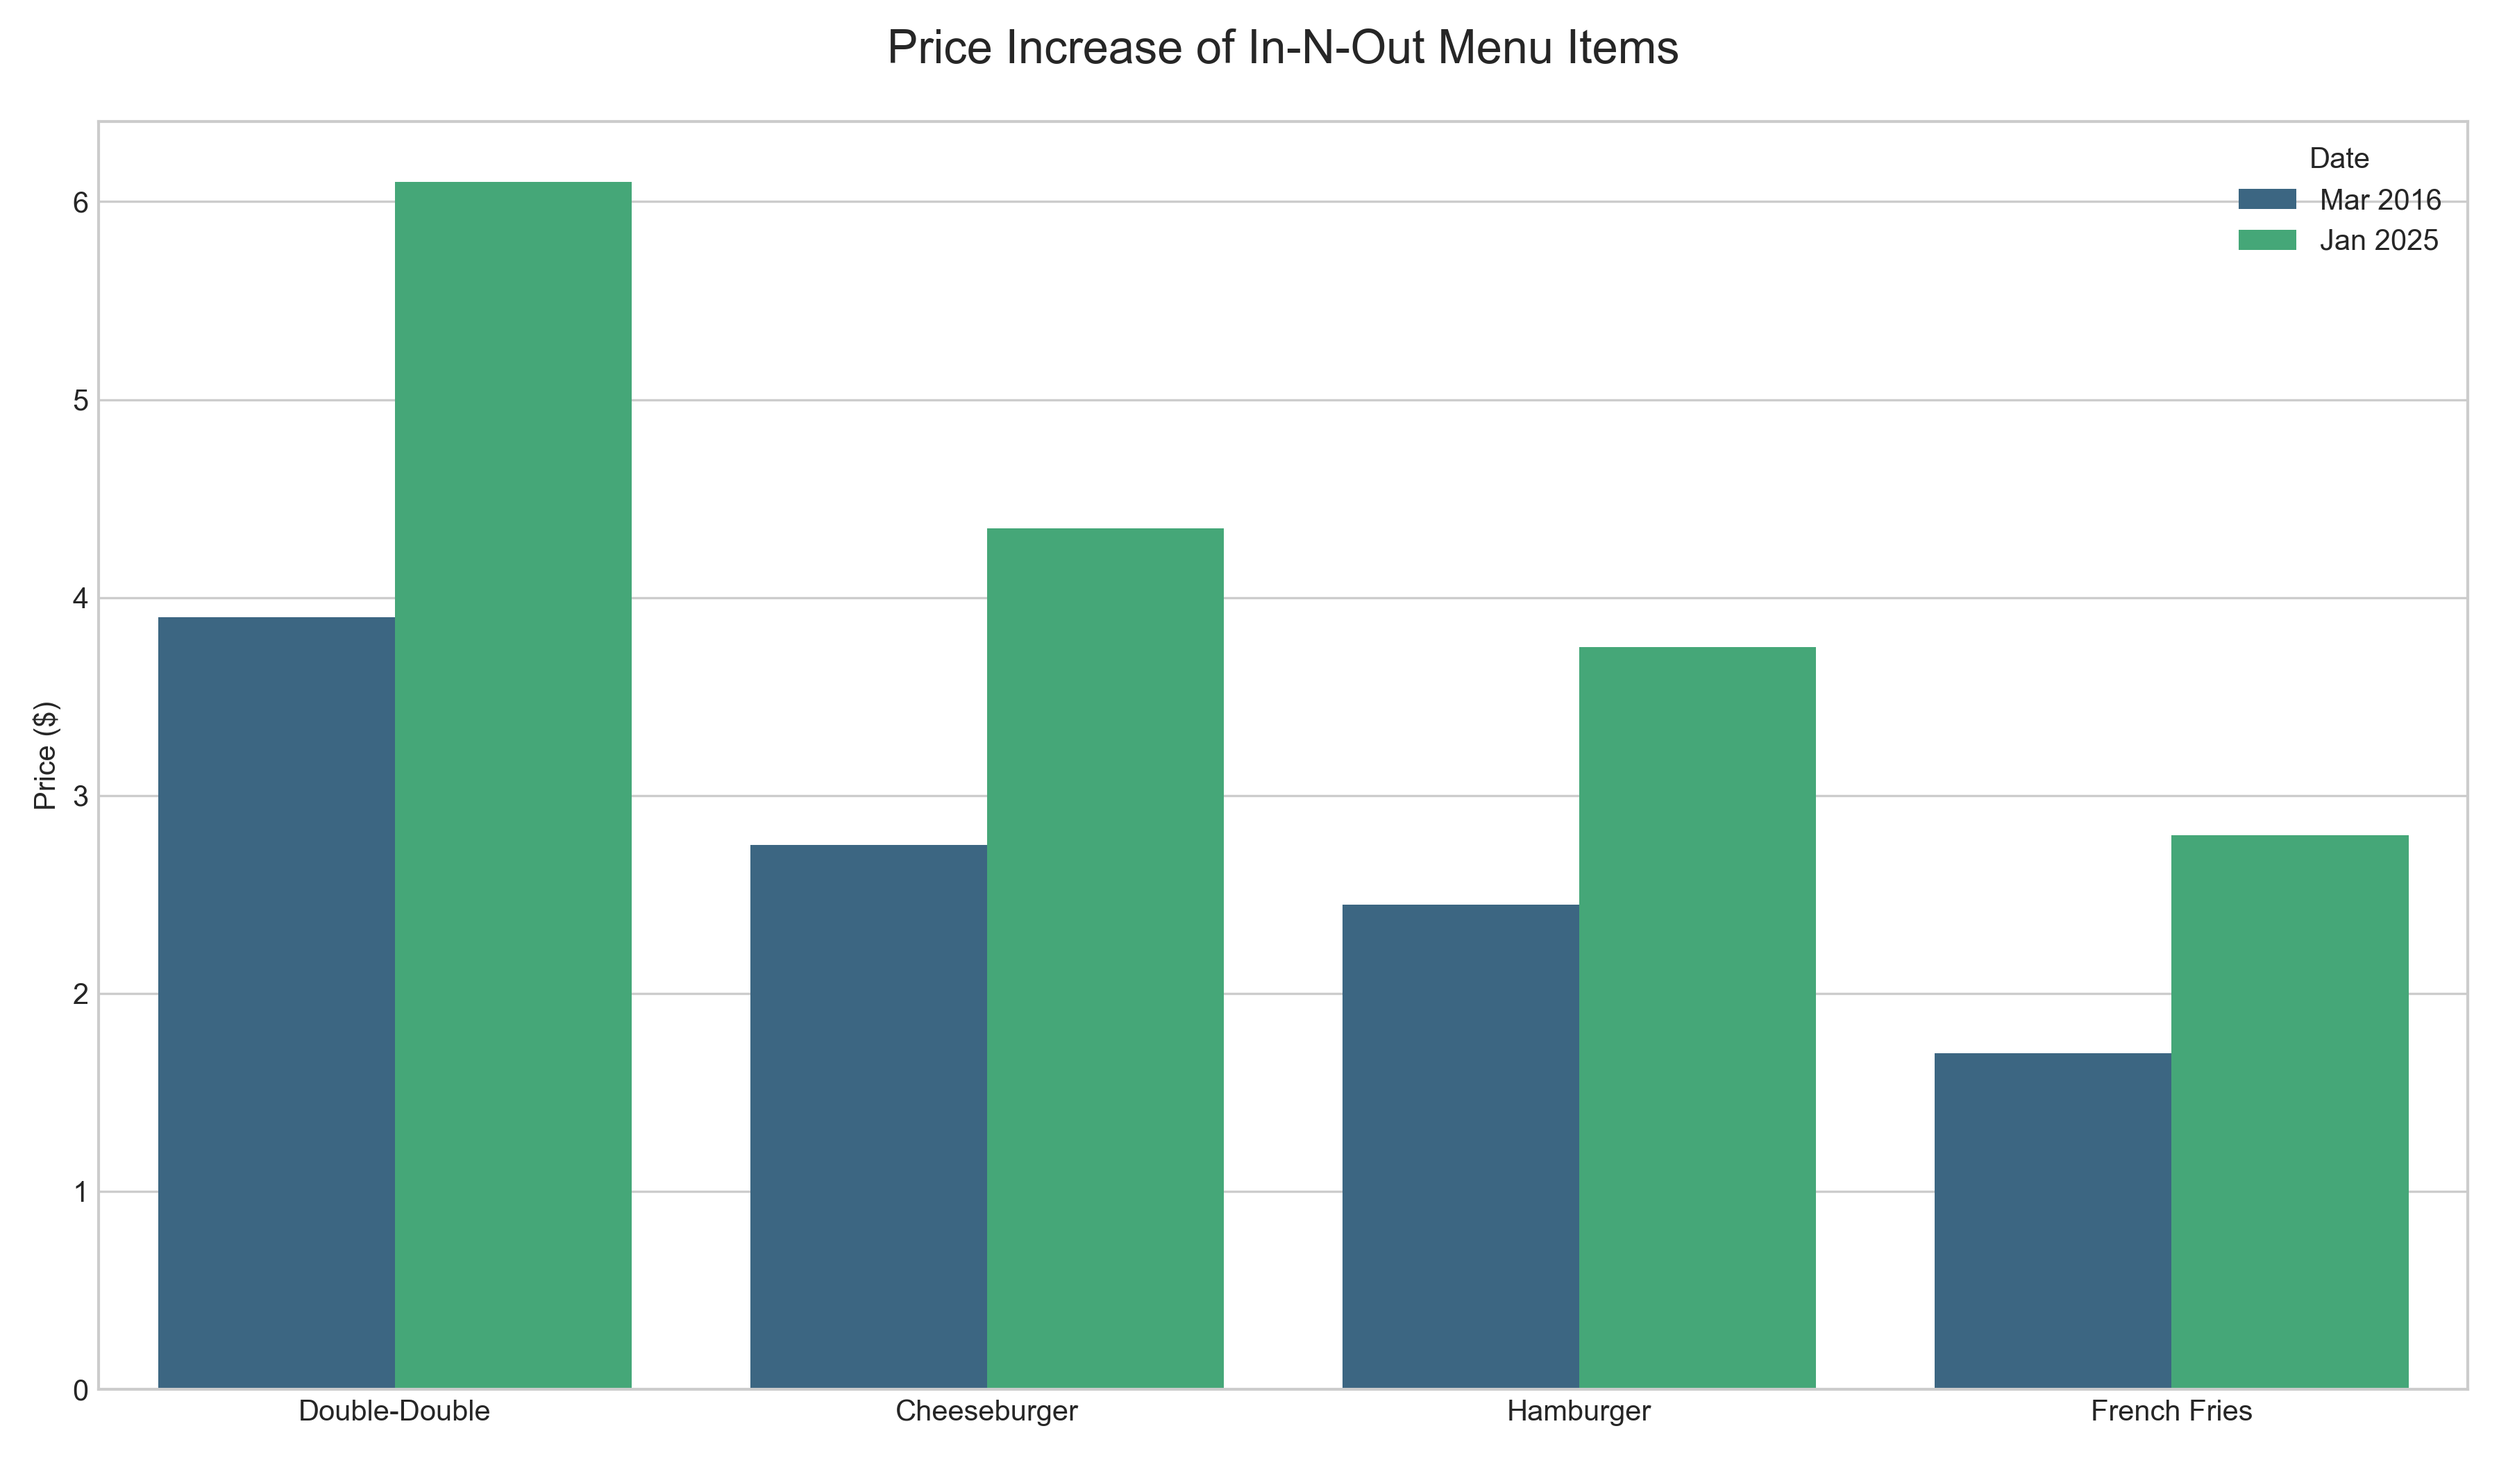
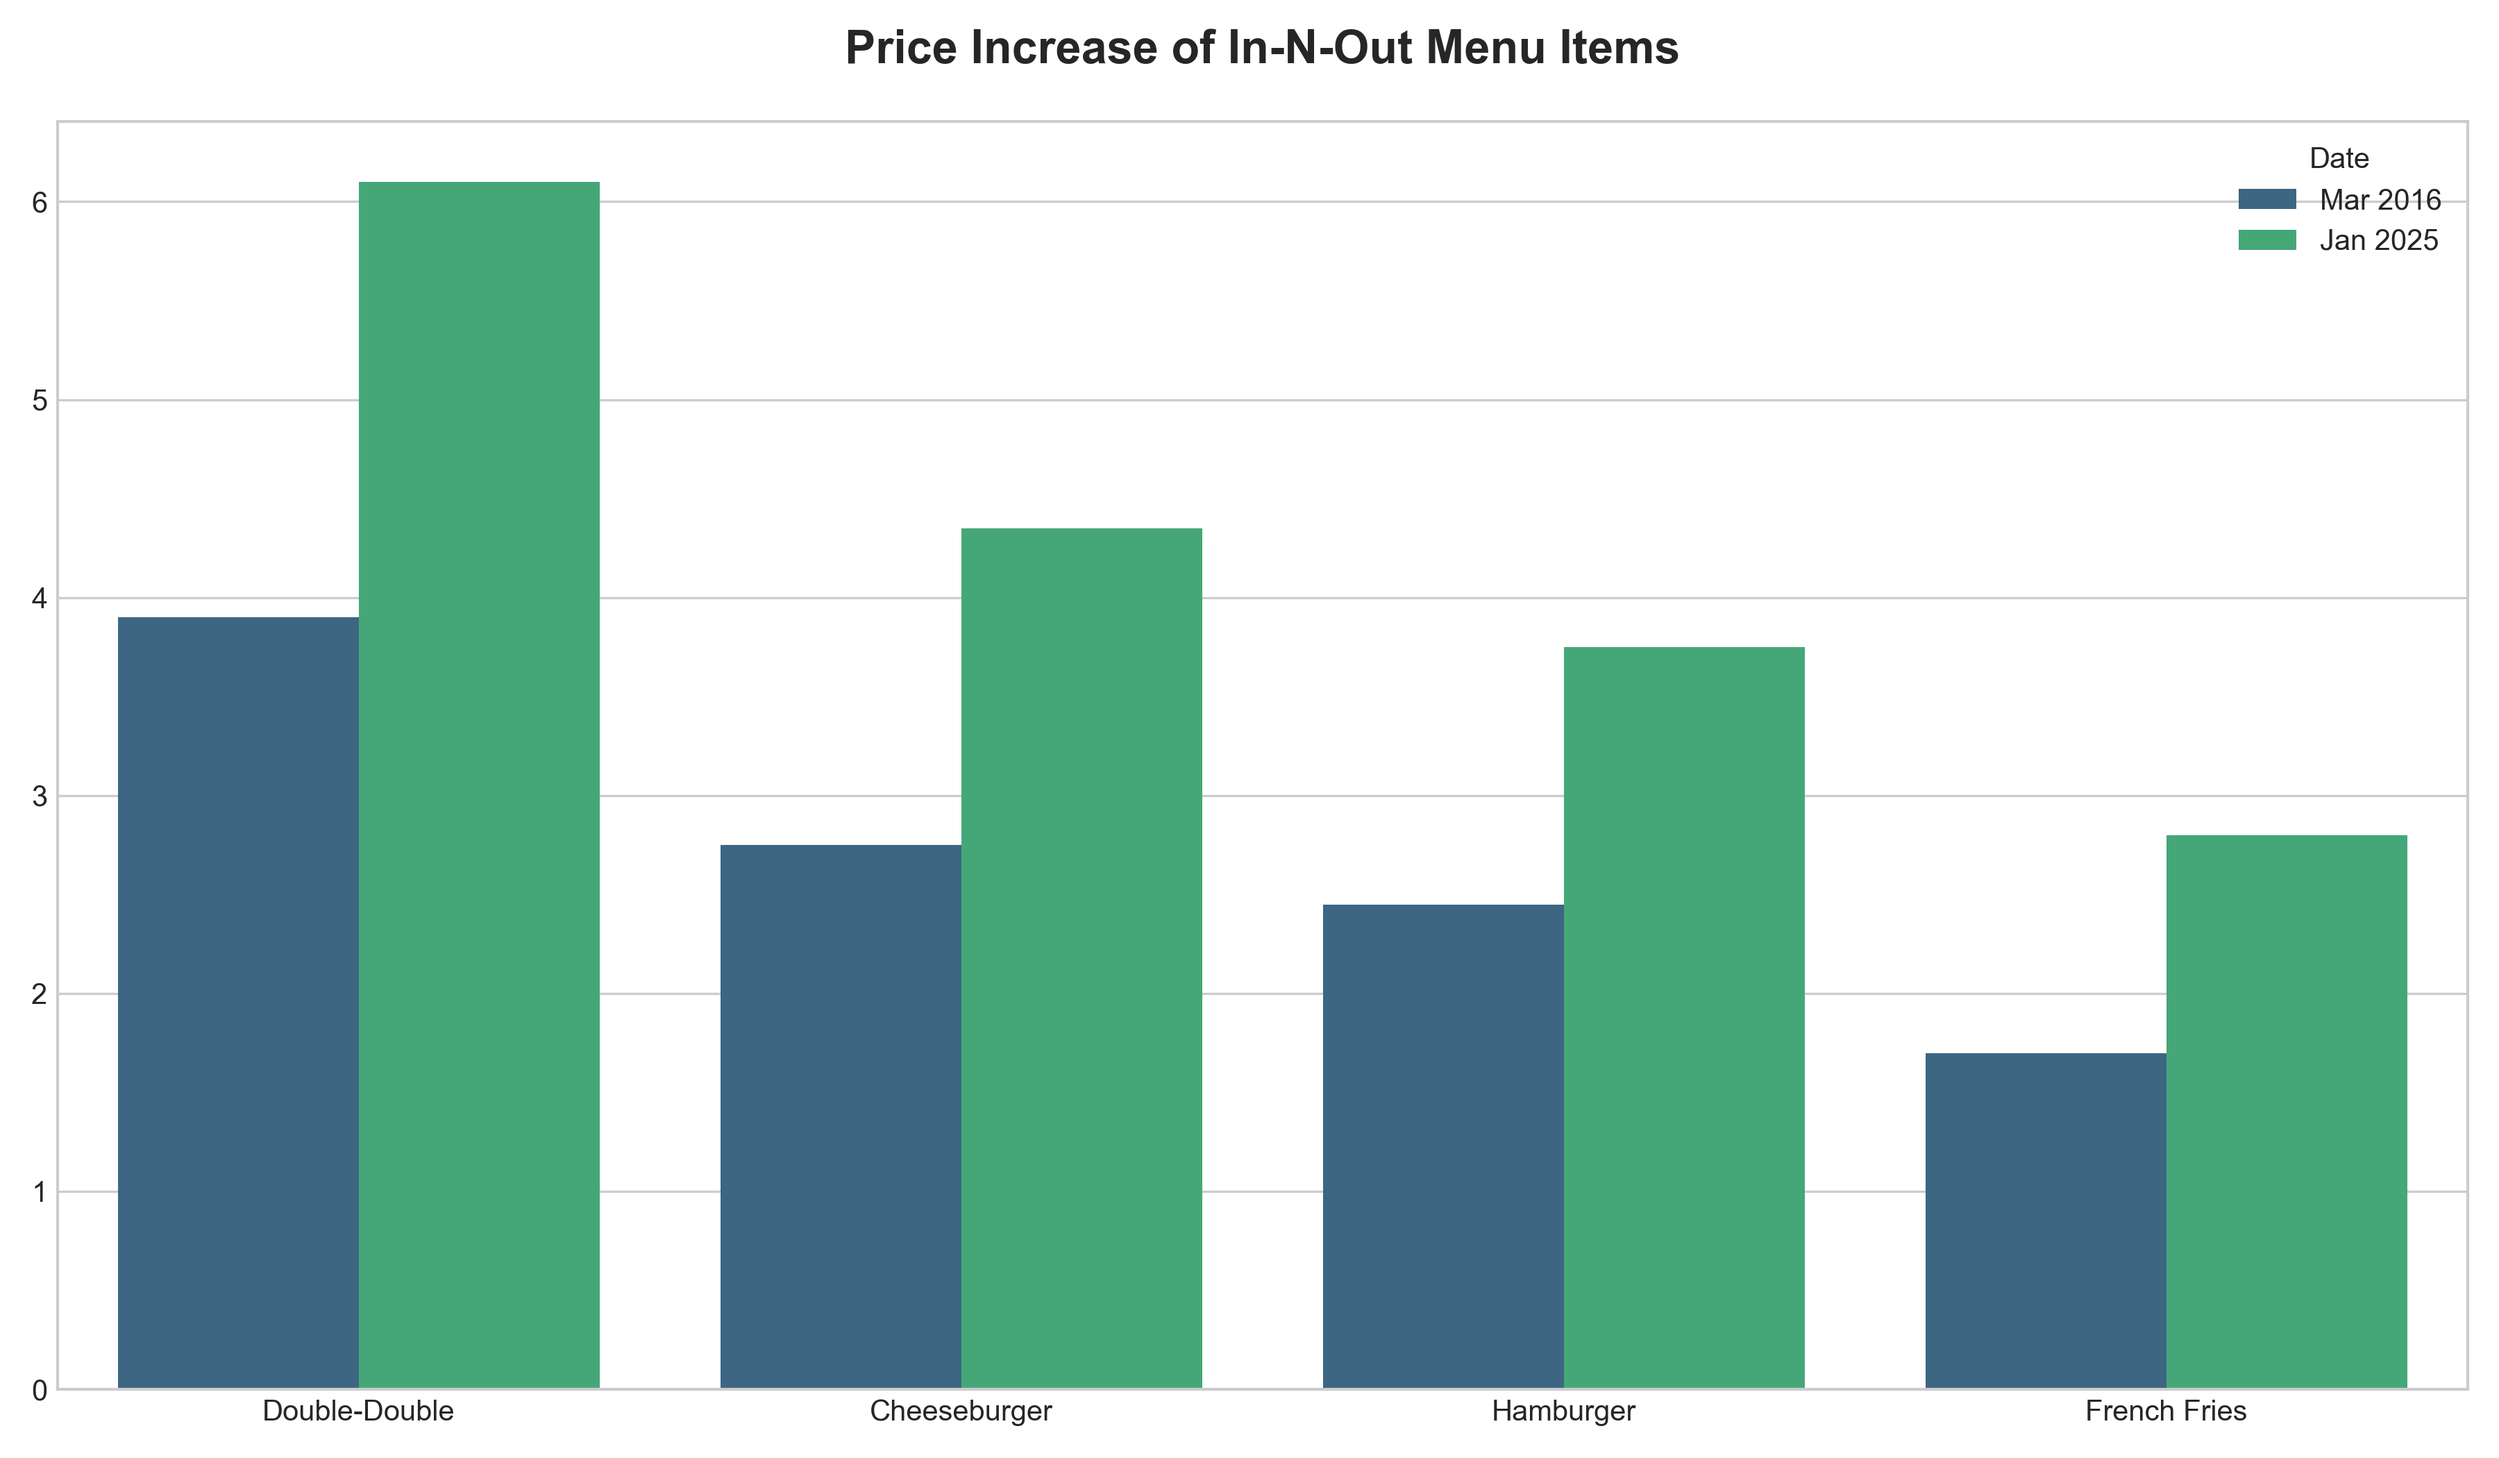
mapping locations used

diff --git a/scripts/analyze_price_changes.py b/scripts/analyze_price_changes.py
@@ -7,6 +7,8 @@ import requests
 from datetime import date
 from dotenv import load_dotenv
 from matplotlib.ticker import FuncFormatter
+import geopandas
+import contextily as cx
 
 # Load environment variables from .env file
 load_dotenv()
@@ -144,6 +146,14 @@ def plot_price_trends(df, cpi_df):
 
 def plot_item_price_summary(df):
     """Generates a bar chart comparing the start and end prices."""
+    # --- Font and Style Setup ---
+    try:
+        plt.rcParams['font.family'] = 'Roboto'
+    except RuntimeError:
+        print("Roboto font not found, using default.")
+        
+    plt.style.use("seaborn-v0_8-whitegrid")
+    
     price_data = []
     start_date = df["date"].iloc[0]
     end_date = df["date"].iloc[-1]
@@ -157,13 +167,12 @@ def plot_item_price_summary(df):
 
     df_plot = pd.DataFrame(price_data)
 
-    plt.style.use("seaborn-v0_8-whitegrid")
     fig, ax = plt.subplots(figsize=(12, 7))
 
     sns.barplot(data=df_plot, x="item", y="price", hue="date_str", ax=ax, palette="viridis")
     
-    ax.set_title("Price Increase of In-N-Out Menu Items", fontsize=16, pad=20)
-    ax.set_ylabel("Price ($)")
+    ax.set_title("Price Increase of In-N-Out Menu Items", fontsize=16, pad=20, fontweight='bold')
+    ax.set_ylabel("") # Remove y-axis label
     ax.set_xlabel("")
     ax.legend(title="Date")
     plt.tight_layout()
@@ -171,6 +180,41 @@ def plot_item_price_summary(df):
     save_path = os.path.join(PLOT_DIR, "item_price_increases.png")
     plt.savefig(save_path, dpi=300)
     print(f"📊 Bar chart saved to '{save_path}'")
+
+def plot_locations_map(data):
+    """
+    Creates a map of all In-N-Out locations from the dataset.
+    """
+    # --- Font and Style Setup ---
+    try:
+        plt.rcParams['font.family'] = 'Roboto'
+    except RuntimeError:
+        print("Roboto font not found, using default.")
+
+    df = pd.DataFrame(data)
+    df = df.dropna(subset=['lat', 'lon'])
+    df = df.drop_duplicates(subset=['lat', 'lon'])
+
+    if df.empty:
+        print("No location data to plot.")
+        return
+
+    gdf = geopandas.GeoDataFrame(
+        df, geometry=geopandas.points_from_xy(df.lon, df.lat), crs="EPSG:4326"
+    )
+
+    # Plotting
+    fig, ax = plt.subplots(figsize=(10, 10))
+    gdf.to_crs(epsg=3857).plot(ax=ax, color='red', markersize=50, edgecolor='black')
+    cx.add_basemap(ax, source=cx.providers.CartoDB.Positron)
+    
+    ax.set_title("In-N-Out Burger locations used in this analysis", fontweight='bold')
+    ax.set_axis_off()
+    
+    plt.tight_layout()
+    save_path = os.path.join(PLOT_DIR, "locations_map.png")
+    plt.savefig(save_path, dpi=300)
+    print(f"🗺  Map saved to '{save_path}'")
 
 def main():
     """Analyzes and visualizes In-N-Out menu price changes."""
@@ -199,6 +243,7 @@ def main():
 
     plot_price_trends(df, cpi_df)
     plot_item_price_summary(df)
+    plot_locations_map(data)
 
 if __name__ == "__main__":
     main() 

diff --git a/README.md b/README.md
@@ -8,6 +8,12 @@ This project uses OpenAI's GPT-4o model to analyze screenshots of In-N-Out drive
 
 ![In-N-Out Double-Double Price vs. Inflation](plots/doubledouble_price_vs_inflation.png)
 
+## Geographic scope
+
+All data was collected from In-N-Out locations in the greater Los Angeles area. The map below shows the specific restaurant locations included in this analysis.
+
+![Map of In-N-Out locations](plots/locations_map.png)
+
 ## Data source
 
 In-N-Out does not publicly release historical menu pricing. To work around this limitation, this project uses screenshots from Google Street View's historical imagery. This provides a snapshot of menu prices at different locations and times, creating a unique dataset for tracking price changes.
@@ -36,7 +42,7 @@ The model returns a JSON object with the extracted data which is then flattened 
 
 2.  **Set up environment variables**
 
-    The script requires an OpenAI API key and a Bureau of Labor Statistics (BLS) API key. Create a `.env` file in the root of the project and add the keys. You can get a free BLS key from their [website](https://data.bls.gov/registrationEngine/).
+    The script requires API keys for OpenAI and the Bureau of Labor Statistics (BLS). Create a `.env` file in the root of the project and add the keys. You can get a free BLS key from their [website](https://data.bls.gov/registrationEngine/).
 
     ```
     OPENAI_API_KEY="your-openai-api-key-here"
@@ -77,6 +83,7 @@ The script will output a clear takeaway, explaining how the item's price has cha
 │   └── ...                       # Input images of menus
 ├── plots/
 │   ├── doubledouble_price_vs_inflation.png # Output chart
+│   ├── locations_map.png         # Location map
 │   └── ...                       # Other generated plots
 ├── scripts/
 │   ├── extract_menu_data.py      # Main data extraction script
